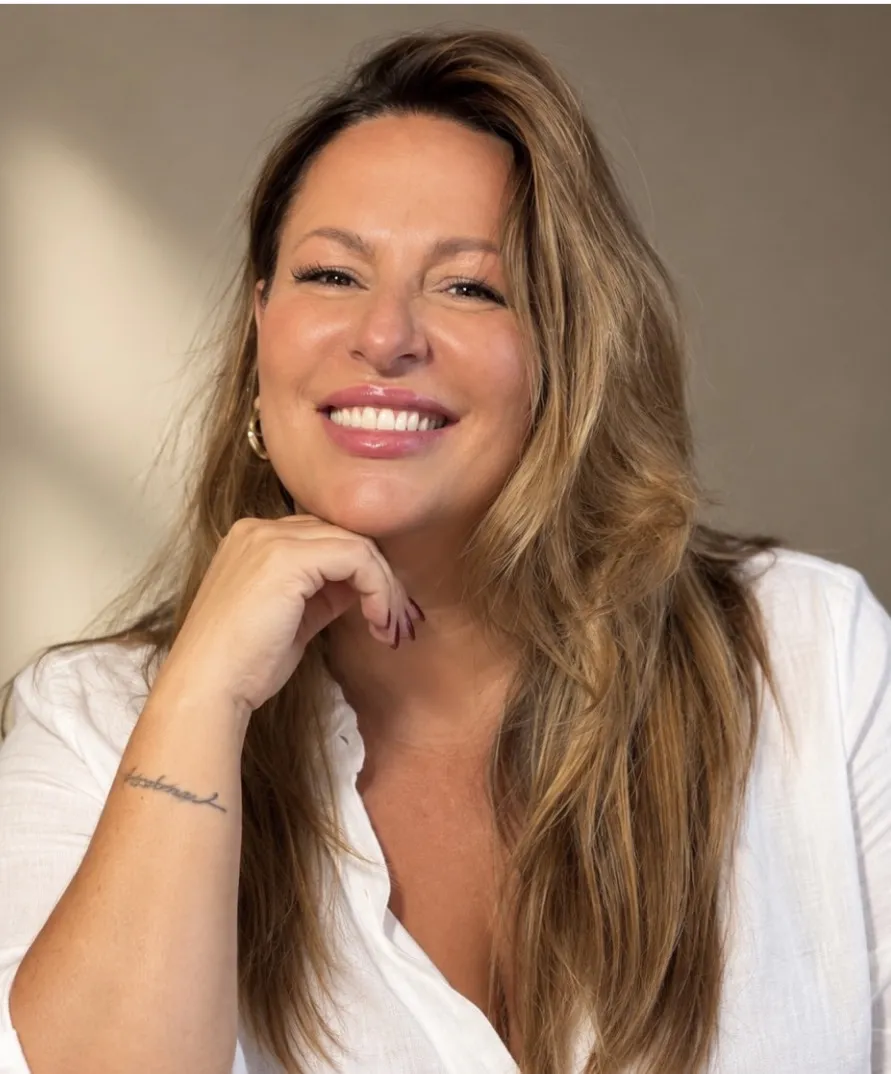
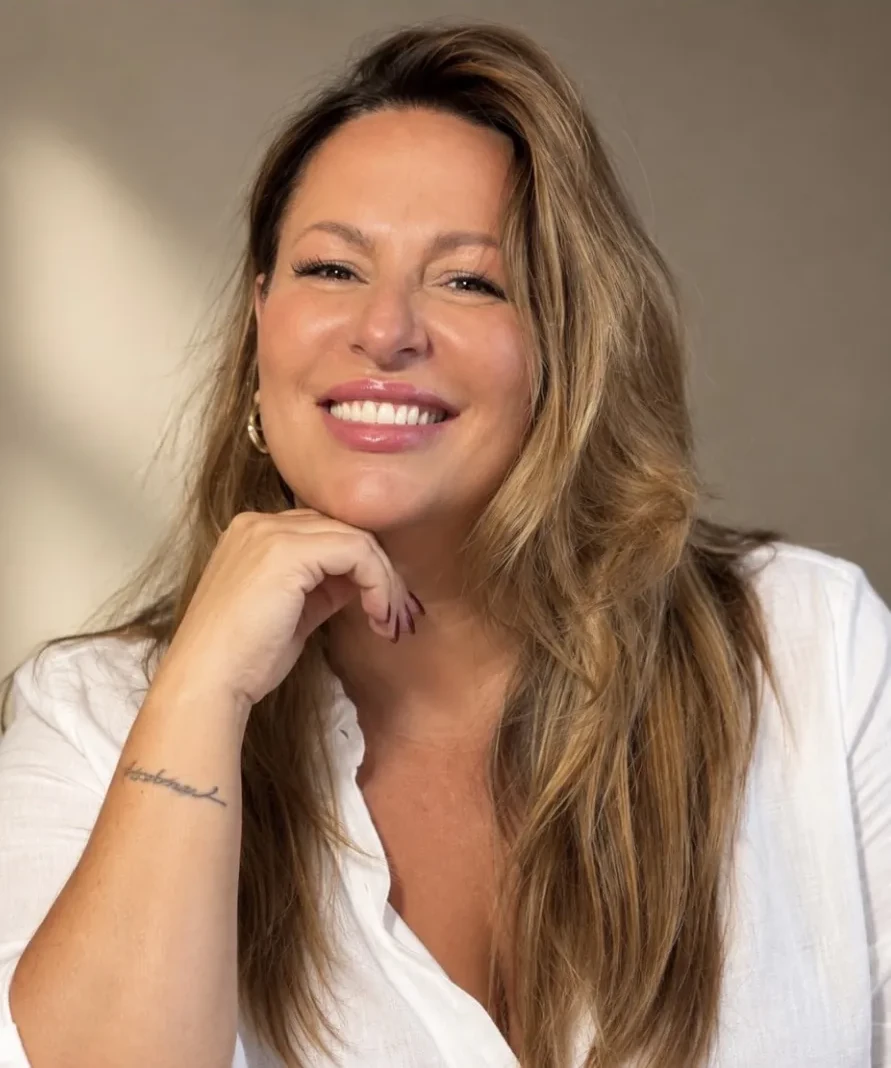
Krem koverta u footeru stranica Nakit, crna nazad na početnoj, svetlija čipka, svetlije kartice utisaka na telefonu, Svetlana bez bele linije
Claude-Session: https://claude.ai/code/session_01D4ZeZm119MDYsH3fkBFZBe

diff --git a/public/index.html b/public/index.html
@@ -295,7 +295,7 @@ if(!(window.matchMedia&&matchMedia('(prefers-reduced-motion: reduce)').matches))
   </div>
 </section>
 <script src="/kamen/embed.js?v=13" defer></script>
-<section id="utisci" aria-label="Utisci mačkica"><link rel="stylesheet" href="/utisci/utisci.css?v=46"><div class="u-head"><h2>Žene koje već nose<br><em>svoj kamen</em></h2><p class="u-sub">Žene koje znaju šta žele: preduzetnice, mame i žene koje stvaraju. Svaka je izabrala svoj kamen. Evo šta kažu.</p></div><div class="u-row"><article class="u-c" tabindex="0"><img src="/assets/utisci/marija.webp?v=1" alt="Marija" loading="lazy" decoding="async" style="object-position:50% 30%"><div class="u-t"><blockquote class="u-q">„Moj Crni Ahat, moja amajlija. Nosim ga, umiruje me.“</blockquote><div class="u-by">— <b>Marija</b>, <span>Salon Ceance</span></div><a class="u-ig" href="https://www.instagram.com/salonseance/" target="_blank" rel="noopener">@salonseance</a></div></article><article class="u-c" tabindex="0"><img src="/assets/utisci/svetlana.webp?v=1" alt="Svetlana" loading="lazy" decoding="async" style="object-position:50% 22%"><div class="u-t"><blockquote class="u-q">„Oni koji me znaju, znaju da obožavam autentičan nakit stvoren sa pričom, maštom i ljubavlju.“</blockquote><div class="u-by">— <b>Svetlana</b>, <span>NLP trener</span></div><a class="u-ig" href="https://www.instagram.com/svetlana_ceca_lolic/" target="_blank" rel="noopener">@svetlana_ceca_lolic</a></div></article><article class="u-c" tabindex="0"><img src="/assets/utisci/danica.webp?v=1" alt="Danica" loading="lazy" decoding="async" style="object-position:50% 22%"><div class="u-t"><blockquote class="u-q">„Uzela sam je pred put u Tbilisi. Prelepa je. Prošetala sam je Gruzijom, slikala i snimala.“</blockquote><div class="u-by">— <b>Danica</b>, <span>Tehnika hidraulike</span></div><a class="u-ig" href="https://www.instagram.com/tehnikahidraulike.st.doo/" target="_blank" rel="noopener">@tehnikahidraulike.st.doo</a></div></article><article class="u-c" tabindex="0"><img src="/assets/utisci/milica.webp?v=1" alt="Milica" loading="lazy" decoding="async" style="object-position:50% 25%"><div class="u-t"><blockquote class="u-q">„Fenomenalna je. Ništa ne bih menjala.“</blockquote><div class="u-by">— <b>Milica</b></div><a class="u-ig" href="https://www.instagram.com/micaa1985/" target="_blank" rel="noopener">@micaa1985</a></div></article><article class="u-c" tabindex="0"><img src="/assets/utisci/ivana.webp?v=1" alt="Ivana" loading="lazy" decoding="async" style="object-position:50% 30%"><div class="u-t"><blockquote class="u-q">„Prelepo. Moj je lepši od tvog.“</blockquote><div class="u-by">— <b>Ivana</b>, <span>Ramovi i dekoracije</span></div><a class="u-ig" href="https://www.instagram.com/ramovi_dekor_beograd/" target="_blank" rel="noopener">@ramovi_dekor_beograd</a></div></article><article class="u-c" tabindex="0"><img src="/assets/utisci/brankica4.webp?v=1" alt="Brankica" loading="lazy" decoding="async" style="object-position:50% 25%"><div class="u-t"><blockquote class="u-q">„Zeleni Aventurin za još malo vilinske magije.“</blockquote><div class="u-by">— <b>Brankica</b>, <span>Veterinar</span></div><a class="u-ig" href="https://www.instagram.com/brankica_vila/" target="_blank" rel="noopener">@brankica_vila</a></div></article><article class="u-c" tabindex="0"><img src="/assets/utisci/zeljka7.webp?v=1" alt="Željka" loading="lazy" decoding="async" style="object-position:50% 30%"><div class="u-t"><blockquote class="u-q">„Volim misleći i kreativni um.“</blockquote><div class="u-by">— <b>Željka</b>, <span>Nutricionista</span></div><a class="u-ig" href="https://www.instagram.com/houseofjoy_barajevo/" target="_blank" rel="noopener">@houseofjoy_barajevo</a></div></article><article class="u-c" tabindex="0"><img src="/assets/utisci/milica-sunka4.webp?v=1" alt="Milica" loading="lazy" decoding="async" style="object-position:50% 40%"><div class="u-t"><blockquote class="u-q">„Sestrić mi je rekao da liči na šunku na vratu. Nosim je.“</blockquote><div class="u-by">— <b>Milica</b></div><a class="u-ig" href="https://www.instagram.com/mujerquemata/" target="_blank" rel="noopener">@mujerquemata</a></div></article></div></section>
+<section id="utisci" aria-label="Utisci mačkica"><link rel="stylesheet" href="/utisci/utisci.css?v=47"><div class="u-head"><h2>Žene koje već nose<br><em>svoj kamen</em></h2><p class="u-sub">Žene koje znaju šta žele: preduzetnice, mame i žene koje stvaraju. Svaka je izabrala svoj kamen. Evo šta kažu.</p></div><div class="u-row"><article class="u-c" tabindex="0"><img src="/assets/utisci/marija.webp?v=1" alt="Marija" loading="lazy" decoding="async" style="object-position:50% 30%"><div class="u-t"><blockquote class="u-q">„Moj Crni Ahat, moja amajlija. Nosim ga, umiruje me.“</blockquote><div class="u-by">— <b>Marija</b>, <span>Salon Ceance</span></div><a class="u-ig" href="https://www.instagram.com/salonseance/" target="_blank" rel="noopener">@salonseance</a></div></article><article class="u-c" tabindex="0"><img src="/assets/utisci/svetlana.webp?v=2" alt="Svetlana" loading="lazy" decoding="async" style="object-position:50% 22%"><div class="u-t"><blockquote class="u-q">„Oni koji me znaju, znaju da obožavam autentičan nakit stvoren sa pričom, maštom i ljubavlju.“</blockquote><div class="u-by">— <b>Svetlana</b>, <span>NLP trener</span></div><a class="u-ig" href="https://www.instagram.com/svetlana_ceca_lolic/" target="_blank" rel="noopener">@svetlana_ceca_lolic</a></div></article><article class="u-c" tabindex="0"><img src="/assets/utisci/danica.webp?v=1" alt="Danica" loading="lazy" decoding="async" style="object-position:50% 22%"><div class="u-t"><blockquote class="u-q">„Uzela sam je pred put u Tbilisi. Prelepa je. Prošetala sam je Gruzijom, slikala i snimala.“</blockquote><div class="u-by">— <b>Danica</b>, <span>Tehnika hidraulike</span></div><a class="u-ig" href="https://www.instagram.com/tehnikahidraulike.st.doo/" target="_blank" rel="noopener">@tehnikahidraulike.st.doo</a></div></article><article class="u-c" tabindex="0"><img src="/assets/utisci/milica.webp?v=1" alt="Milica" loading="lazy" decoding="async" style="object-position:50% 25%"><div class="u-t"><blockquote class="u-q">„Fenomenalna je. Ništa ne bih menjala.“</blockquote><div class="u-by">— <b>Milica</b></div><a class="u-ig" href="https://www.instagram.com/micaa1985/" target="_blank" rel="noopener">@micaa1985</a></div></article><article class="u-c" tabindex="0"><img src="/assets/utisci/ivana.webp?v=1" alt="Ivana" loading="lazy" decoding="async" style="object-position:50% 30%"><div class="u-t"><blockquote class="u-q">„Prelepo. Moj je lepši od tvog.“</blockquote><div class="u-by">— <b>Ivana</b>, <span>Ramovi i dekoracije</span></div><a class="u-ig" href="https://www.instagram.com/ramovi_dekor_beograd/" target="_blank" rel="noopener">@ramovi_dekor_beograd</a></div></article><article class="u-c" tabindex="0"><img src="/assets/utisci/brankica4.webp?v=1" alt="Brankica" loading="lazy" decoding="async" style="object-position:50% 25%"><div class="u-t"><blockquote class="u-q">„Zeleni Aventurin za još malo vilinske magije.“</blockquote><div class="u-by">— <b>Brankica</b>, <span>Veterinar</span></div><a class="u-ig" href="https://www.instagram.com/brankica_vila/" target="_blank" rel="noopener">@brankica_vila</a></div></article><article class="u-c" tabindex="0"><img src="/assets/utisci/zeljka7.webp?v=1" alt="Željka" loading="lazy" decoding="async" style="object-position:50% 30%"><div class="u-t"><blockquote class="u-q">„Volim misleći i kreativni um.“</blockquote><div class="u-by">— <b>Željka</b>, <span>Nutricionista</span></div><a class="u-ig" href="https://www.instagram.com/houseofjoy_barajevo/" target="_blank" rel="noopener">@houseofjoy_barajevo</a></div></article><article class="u-c" tabindex="0"><img src="/assets/utisci/milica-sunka4.webp?v=1" alt="Milica" loading="lazy" decoding="async" style="object-position:50% 40%"><div class="u-t"><blockquote class="u-q">„Sestrić mi je rekao da liči na šunku na vratu. Nosim je.“</blockquote><div class="u-by">— <b>Milica</b></div><a class="u-ig" href="https://www.instagram.com/mujerquemata/" target="_blank" rel="noopener">@mujerquemata</a></div></article></div></section>
 <script src="/utisci/utisci.js?v=22" defer></script>
 
 <sc-if value="{{ chipTxt }}" hint-placeholder-val="{{ false }}">
@@ -304,9 +304,9 @@ if(!(window.matchMedia&&matchMedia('(prefers-reduced-motion: reduce)').matches))
     <span style="display:grid;gap:2px"><span style="font:700 12px/1.2 Inter,sans-serif;letter-spacing:.1em;text-transform:uppercase">{{ chipTxt }}</span><span style="font:500 11px Inter,sans-serif;color:#5C534A">U korpi · važi još <b style="font-variant-numeric:tabular-nums">{{ left }}</b></span></span>
   </a>
 </sc-if>
-<footer id="mfoot"><link rel="stylesheet" href="/footer/footer.css?v=6"><div class="f-in">
+<footer id="mfoot"><link rel="stylesheet" href="/footer/footer.css?v=7"><div class="f-in">
 <div class="f-soc l"></div>
-<div class="f-env"><img class="e" src="/assets/kamen/koverta-krem.webp?v=1" alt="" loading="lazy"><div class="f-paper"><img src="/assets/site/maca-providna.png" alt=""><div class="s">Mnjauprrrrr</div><div class="h">Nakit za mačkice</div><div class="t">Ili jesi ili nisi mačka</div><a href="mailto:marina.rakic1806@gmail.com">marina.rakic1806@gmail.com</a></div></div>
+<div class="f-env"><img class="e" src="/assets/kamen/koverta.webp?v=1" alt="" loading="lazy"><div class="f-paper"><img src="/assets/site/maca-providna.png" alt=""><div class="s">Mnjauprrrrr</div><div class="h">Nakit za mačkice</div><div class="t">Ili jesi ili nisi mačka</div><a href="mailto:marina.rakic1806@gmail.com">marina.rakic1806@gmail.com</a></div></div>
 <div class="f-soc r"><a href="https://www.tiktok.com/@mnjauprrrrr" target="_blank" rel="noopener" aria-label="TikTok"><svg viewBox="0 0 24 24"><path d="M16.6 3c.3 2.4 1.8 4 4.1 4.2v3.1c-1.5 0-2.9-.4-4.1-1.2v6.4c0 3.6-2.6 6.1-6 6.1a5.9 5.9 0 0 1-6-5.9c0-3.6 3.1-6.3 6.7-5.8v3.2c-1.7-.5-3.3.6-3.3 2.4 0 1.5 1.200 2.700 2.700 2.700 1.700 0 2.700-1.200 2.700-3V3z"/></svg></a><a href="https://www.instagram.com/mnjauprrrrrr" target="_blank" rel="noopener" aria-label="Instagram"><svg viewBox="0 0 24 24"><path d="M7.800 2h8.400A5.800 5.800 0 0 1 22 7.800v8.400a5.800 5.800 0 0 1-5.800 5.800H7.800A5.800 5.800 0 0 1 2 16.200V7.800A5.800 5.800 0 0 1 7.800 2zm0 2A3.800 3.800 0 0 0 4 7.800v8.400A3.800 3.800 0 0 0 7.800 20h8.400a3.800 3.800 0 0 0 3.800-3.800V7.800A3.800 3.800 0 0 0 16.200 4H7.800zM12 7a5 5 0 1 1 0 10 5 5 0 0 1 0-10zm0 2a3 3 0 1 0 0 6 3 3 0 0 0 0-6zm5.500-3.200a1.200 1.200 0 1 1 0 2.400 1.200 1.200 0 0 1 0-2.400z"/></svg></a><a href="https://www.facebook.com/share/1CaxCXrf5x/?mibextid=wwXIfr" target="_blank" rel="noopener" aria-label="Facebook"><svg viewBox="0 0 24 24"><path d="M13.500 22v-8.200h2.800l.4-3.300h-3.200V8.400c0-.9.300-1.600 1.600-1.600h1.700V3.900c-.3 0-1.300-.1-2.400-.1-2.500 0-4.200 1.500-4.200 4.300v2.400H7.400v3.300h2.800V22h3.300z"/></svg></a><a href="https://www.pinterest.com/marinar369/" target="_blank" rel="noopener" aria-label="Pinterest"><svg viewBox="0 0 24 24"><path d="M12 2a10 10 0 0 0-3.600 19.300c-.1-.8-.2-2 0-2.900l1.200-5s-.3-.6-.3-1.500c0-1.400.8-2.400 1.800-2.400.9 0 1.300.6 1.300 1.400 0 .9-.5 2.100-.8 3.300-.2 1 .5 1.800 1.500 1.800 1.800 0 3.200-1.900 3.200-4.600 0-2.400-1.700-4.100-4.200-4.100-2.900 0-4.600 2.200-4.600 4.400 0 .9.300 1.800.8 2.300.1.1.1.2.1.3l-.3 1.100c0 .2-.2.2-.4.1-1.300-.6-2.100-2.500-2.100-4 0-3.300 2.400-6.300 6.900-6.300 3.600 0 6.400 2.600 6.400 6 0 3.600-2.300 6.500-5.400 6.500-1.100 0-2.100-.6-2.400-1.200l-.7 2.500c-.2.900-.9 2.100-1.300 2.800A10 10 0 1 0 12 2z"/></svg></a></div>
 </div><div class="f-copy">© 2026 Mnjauprrrrr</div></footer>
 </div>

diff --git a/public/footer/krem.js b/public/footer/krem.js
@@ -1,0 +1,14 @@
+(function(){
+if(window.__mjKremFooter)return;window.__mjKremFooter=1;
+var HTML="<div class=\"f-in\">\n<div class=\"f-soc l\"></div>\n<div class=\"f-env\"><img class=\"e\" src=\"/assets/kamen/koverta-krem.webp?v=2\" alt=\"\" loading=\"lazy\"><div class=\"f-paper\"><img src=\"/assets/site/maca-providna.png\" alt=\"\"><div class=\"s\">Mnjauprrrrr</div><div class=\"h\">Nakit za mačkice</div><div class=\"t\">Ili jesi ili nisi mačka</div><a href=\"mailto:marina.rakic1806@gmail.com\">marina.rakic1806@gmail.com</a></div></div>\n<div class=\"f-soc r\"><a href=\"https://www.tiktok.com/@mnjauprrrrr\" target=\"_blank\" rel=\"noopener\" aria-label=\"TikTok\"><svg viewBox=\"0 0 24 24\"><path d=\"M16.6 3c.3 2.4 1.8 4 4.1 4.2v3.1c-1.5 0-2.9-.4-4.1-1.2v6.4c0 3.6-2.6 6.1-6 6.1a5.9 5.9 0 0 1-6-5.9c0-3.6 3.1-6.3 6.7-5.8v3.2c-1.7-.5-3.3.6-3.3 2.4 0 1.5 1.200 2.700 2.700 2.700 1.700 0 2.700-1.200 2.700-3V3z\"/></svg></a><a href=\"https://www.instagram.com/mnjauprrrrrr\" target=\"_blank\" rel=\"noopener\" aria-label=\"Instagram\"><svg viewBox=\"0 0 24 24\"><path d=\"M7.800 2h8.400A5.800 5.800 0 0 1 22 7.800v8.400a5.800 5.800 0 0 1-5.800 5.800H7.800A5.800 5.800 0 0 1 2 16.200V7.800A5.800 5.800 0 0 1 7.800 2zm0 2A3.800 3.800 0 0 0 4 7.800v8.400A3.800 3.800 0 0 0 7.800 20h8.400a3.800 3.800 0 0 0 3.800-3.800V7.800A3.800 3.800 0 0 0 16.200 4H7.800zM12 7a5 5 0 1 1 0 10 5 5 0 0 1 0-10zm0 2a3 3 0 1 0 0 6 3 3 0 0 0 0-6zm5.500-3.200a1.200 1.200 0 1 1 0 2.400 1.200 1.200 0 0 1 0-2.400z\"/></svg></a><a href=\"https://www.facebook.com/share/1CaxCXrf5x/?mibextid=wwXIfr\" target=\"_blank\" rel=\"noopener\" aria-label=\"Facebook\"><svg viewBox=\"0 0 24 24\"><path d=\"M13.500 22v-8.200h2.800l.4-3.300h-3.200V8.400c0-.9.300-1.600 1.600-1.600h1.700V3.900c-.3 0-1.300-.1-2.400-.1-2.500 0-4.200 1.500-4.200 4.300v2.400H7.400v3.300h2.800V22h3.300z\"/></svg></a><a href=\"https://www.pinterest.com/marinar369/\" target=\"_blank\" rel=\"noopener\" aria-label=\"Pinterest\"><svg viewBox=\"0 0 24 24\"><path d=\"M12 2a10 10 0 0 0-3.600 19.300c-.1-.8-.2-2 0-2.900l1.200-5s-.3-.6-.3-1.500c0-1.400.8-2.400 1.800-2.400.9 0 1.300.6 1.300 1.400 0 .9-.5 2.100-.8 3.300-.2 1 .5 1.800 1.500 1.800 1.800 0 3.200-1.900 3.200-4.600 0-2.400-1.700-4.100-4.200-4.100-2.900 0-4.600 2.200-4.600 4.400 0 .9.300 1.800.8 2.300.1.1.1.2.1.3l-.3 1.100c0 .2-.2.2-.4.1-1.300-.6-2.100-2.500-2.100-4 0-3.300 2.400-6.300 6.900-6.300 3.600 0 6.400 2.600 6.400 6 0 3.600-2.300 6.500-5.400 6.500-1.100 0-2.100-.6-2.400-1.200l-.7 2.500c-.2.900-.9 2.100-1.300 2.800A10 10 0 1 0 12 2z\"/></svg></a></div>\n</div><div class=\"f-copy\">© 2026 Mnjauprrrrr</div>";
+function go(){
+  var old=document.querySelector('footer#kontakt');
+  if(!old||document.getElementById('mfoot'))return false;
+  old.removeAttribute('id');old.style.display='none';old.setAttribute('data-old-footer','1');
+  if(!document.getElementById('mfoot-css')){var l=document.createElement('link');l.id='mfoot-css';l.rel='stylesheet';l.href='/footer/footer.css?v=7';document.head.appendChild(l)}
+  var f=document.createElement('footer');f.id='mfoot';f.innerHTML='<span id="kontakt" style="position:absolute;top:0"></span>'+HTML;
+  old.parentNode.insertBefore(f,old.nextSibling);return true;
+}
+var tries=0;(function t(){if(go()||tries++>80)return;setTimeout(t,150)})();
+new MutationObserver(function(){var o=document.querySelector('footer#kontakt');if(o&&!document.getElementById('mfoot'))go()}).observe(document.documentElement,{childList:true,subtree:true});
+})();

diff --git a/public/nakit/sazvezdje-ljubavi/index.html b/public/nakit/sazvezdje-ljubavi/index.html
@@ -1,1 +1,1 @@
-<!doctype html><html lang="sr-Latn"><head><meta charset="utf-8"><title>Ogrlica Sazvežđe ljubavi | Mnjauprrrrr</title><meta name="viewport" content="width=device-width,initial-scale=1"><link rel="canonical" href="https://mnjauprrrrr.com/nakit/sazvezdje-ljubavi/"><meta property="og:title" content="Ogrlica Sazvežđe ljubavi | Mnjauprrrrr"><meta property="og:image" content="https://mnjauprrrrr.com/assets/site/p-ogrlica-sazvezdje-ljubavi.jpg"><meta http-equiv="refresh" content="0;url=/sajt/#proizvod/sazvezdje-ljubavi"><script>location.replace('/sajt/#proizvod/sazvezdje-ljubavi')</script></head><body style="background:#F4EDE2;font-family:Inter,sans-serif"><a href="/sajt/#proizvod/sazvezdje-ljubavi">Ogrlica Sazvežđe ljubavi</a></body></html>
+<!doctype html><html lang="sr-Latn"><head><meta charset="utf-8"><title>Ogrlica Sazvežđe ljubavi | Mnjauprrrrr</title><meta name="viewport" content="width=device-width,initial-scale=1"><link rel="canonical" href="https://mnjauprrrrr.com/nakit/sazvezdje-ljubavi/"><meta property="og:title" content="Ogrlica Sazvežđe ljubavi | Mnjauprrrrr"><meta property="og:image" content="https://mnjauprrrrr.com/assets/site/p-ogrlica-sazvezdje-ljubavi.jpg"><meta http-equiv="refresh" content="0;url=/sajt/#proizvod/sazvezdje-ljubavi"><script>location.replace('/sajt/#proizvod/sazvezdje-ljubavi')</script></head><body style="background:#F4EDE2;font-family:Inter,sans-serif"><a href="/sajt/#proizvod/sazvezdje-ljubavi">Ogrlica Sazvežđe ljubavi</a><script src="/footer/krem.js?v=1" defer></script></body></html>

diff --git a/public/nakit/sampanj-kristali/index.html b/public/nakit/sampanj-kristali/index.html
@@ -1,1 +1,1 @@
-<!doctype html><html lang="sr-Latn"><head><meta charset="utf-8"><title>Ogrlica Šampanj kristali | Mnjauprrrrr</title><meta name="viewport" content="width=device-width,initial-scale=1"><link rel="canonical" href="https://mnjauprrrrr.com/nakit/sampanj-kristali/"><meta property="og:title" content="Ogrlica Šampanj kristali | Mnjauprrrrr"><meta property="og:image" content="https://mnjauprrrrr.com/assets/site/p-ogrlica-sampanj-kristali.jpg"><meta http-equiv="refresh" content="0;url=/sajt/#proizvod/sampanj-kristali"><script>location.replace('/sajt/#proizvod/sampanj-kristali')</script></head><body style="background:#F4EDE2;font-family:Inter,sans-serif"><a href="/sajt/#proizvod/sampanj-kristali">Ogrlica Šampanj kristali</a></body></html>
+<!doctype html><html lang="sr-Latn"><head><meta charset="utf-8"><title>Ogrlica Šampanj kristali | Mnjauprrrrr</title><meta name="viewport" content="width=device-width,initial-scale=1"><link rel="canonical" href="https://mnjauprrrrr.com/nakit/sampanj-kristali/"><meta property="og:title" content="Ogrlica Šampanj kristali | Mnjauprrrrr"><meta property="og:image" content="https://mnjauprrrrr.com/assets/site/p-ogrlica-sampanj-kristali.jpg"><meta http-equiv="refresh" content="0;url=/sajt/#proizvod/sampanj-kristali"><script>location.replace('/sajt/#proizvod/sampanj-kristali')</script></head><body style="background:#F4EDE2;font-family:Inter,sans-serif"><a href="/sajt/#proizvod/sampanj-kristali">Ogrlica Šampanj kristali</a><script src="/footer/krem.js?v=1" defer></script></body></html>

diff --git a/public/nakit/razigrani-jaspis/index.html b/public/nakit/razigrani-jaspis/index.html
@@ -1,1 +1,1 @@
-<!doctype html><html lang="sr-Latn"><head><meta charset="utf-8"><title>Ogrlica Razigrani Jaspis | Mnjauprrrrr</title><meta name="viewport" content="width=device-width,initial-scale=1"><link rel="canonical" href="https://mnjauprrrrr.com/nakit/razigrani-jaspis/"><meta property="og:title" content="Ogrlica Razigrani Jaspis | Mnjauprrrrr"><meta property="og:image" content="https://mnjauprrrrr.com/assets/site/p-ogrlica-razigrani-jaspis.jpg"><meta http-equiv="refresh" content="0;url=/sajt/#proizvod/razigrani-jaspis"><script>location.replace('/sajt/#proizvod/razigrani-jaspis')</script></head><body style="background:#F4EDE2;font-family:Inter,sans-serif"><a href="/sajt/#proizvod/razigrani-jaspis">Ogrlica Razigrani Jaspis</a></body></html>
+<!doctype html><html lang="sr-Latn"><head><meta charset="utf-8"><title>Ogrlica Razigrani Jaspis | Mnjauprrrrr</title><meta name="viewport" content="width=device-width,initial-scale=1"><link rel="canonical" href="https://mnjauprrrrr.com/nakit/razigrani-jaspis/"><meta property="og:title" content="Ogrlica Razigrani Jaspis | Mnjauprrrrr"><meta property="og:image" content="https://mnjauprrrrr.com/assets/site/p-ogrlica-razigrani-jaspis.jpg"><meta http-equiv="refresh" content="0;url=/sajt/#proizvod/razigrani-jaspis"><script>location.replace('/sajt/#proizvod/razigrani-jaspis')</script></head><body style="background:#F4EDE2;font-family:Inter,sans-serif"><a href="/sajt/#proizvod/razigrani-jaspis">Ogrlica Razigrani Jaspis</a><script src="/footer/krem.js?v=1" defer></script></body></html>

diff --git a/public/nakit/krug-svetlosti/index.html b/public/nakit/krug-svetlosti/index.html
@@ -1,1 +1,1 @@
-<!doctype html><html lang="sr-Latn"><head><meta charset="utf-8"><title>Ogrlica Krug svetlosti | Mnjauprrrrr</title><meta name="viewport" content="width=device-width,initial-scale=1"><link rel="canonical" href="https://mnjauprrrrr.com/nakit/krug-svetlosti/"><meta property="og:title" content="Ogrlica Krug svetlosti | Mnjauprrrrr"><meta property="og:image" content="https://mnjauprrrrr.com/assets/site/p-ogrlica-krug-svetlosti.jpg"><meta http-equiv="refresh" content="0;url=/sajt/#proizvod/krug-svetlosti"><script>location.replace('/sajt/#proizvod/krug-svetlosti')</script></head><body style="background:#F4EDE2;font-family:Inter,sans-serif"><a href="/sajt/#proizvod/krug-svetlosti">Ogrlica Krug svetlosti</a></body></html>
+<!doctype html><html lang="sr-Latn"><head><meta charset="utf-8"><title>Ogrlica Krug svetlosti | Mnjauprrrrr</title><meta name="viewport" content="width=device-width,initial-scale=1"><link rel="canonical" href="https://mnjauprrrrr.com/nakit/krug-svetlosti/"><meta property="og:title" content="Ogrlica Krug svetlosti | Mnjauprrrrr"><meta property="og:image" content="https://mnjauprrrrr.com/assets/site/p-ogrlica-krug-svetlosti.jpg"><meta http-equiv="refresh" content="0;url=/sajt/#proizvod/krug-svetlosti"><script>location.replace('/sajt/#proizvod/krug-svetlosti')</script></head><body style="background:#F4EDE2;font-family:Inter,sans-serif"><a href="/sajt/#proizvod/krug-svetlosti">Ogrlica Krug svetlosti</a><script src="/footer/krem.js?v=1" defer></script></body></html>

diff --git a/public/nakit/prsten-riznica/index.html b/public/nakit/prsten-riznica/index.html
@@ -1,1 +1,1 @@
-<!doctype html><html lang="sr-Latn"><head><meta charset="utf-8"><title>Prsten Mesečeva riznica | Mnjauprrrrr</title><meta name="viewport" content="width=device-width,initial-scale=1"><link rel="canonical" href="https://mnjauprrrrr.com/nakit/prsten-riznica/"><meta property="og:title" content="Prsten Mesečeva riznica | Mnjauprrrrr"><meta property="og:image" content="https://mnjauprrrrr.com/assets/site/p-prsten-riznica.jpg"><meta http-equiv="refresh" content="0;url=/sajt/#proizvod/prsten-riznica"><script>location.replace('/sajt/#proizvod/prsten-riznica')</script></head><body style="background:#F4EDE2;font-family:Inter,sans-serif"><a href="/sajt/#proizvod/prsten-riznica">Prsten Mesečeva riznica</a></body></html>
+<!doctype html><html lang="sr-Latn"><head><meta charset="utf-8"><title>Prsten Mesečeva riznica | Mnjauprrrrr</title><meta name="viewport" content="width=device-width,initial-scale=1"><link rel="canonical" href="https://mnjauprrrrr.com/nakit/prsten-riznica/"><meta property="og:title" content="Prsten Mesečeva riznica | Mnjauprrrrr"><meta property="og:image" content="https://mnjauprrrrr.com/assets/site/p-prsten-riznica.jpg"><meta http-equiv="refresh" content="0;url=/sajt/#proizvod/prsten-riznica"><script>location.replace('/sajt/#proizvod/prsten-riznica')</script></head><body style="background:#F4EDE2;font-family:Inter,sans-serif"><a href="/sajt/#proizvod/prsten-riznica">Prsten Mesečeva riznica</a><script src="/footer/krem.js?v=1" defer></script></body></html>

diff --git a/public/nakit/narukvica-vazduh/index.html b/public/nakit/narukvica-vazduh/index.html
@@ -1,1 +1,1 @@
-<!doctype html><html lang="sr-Latn"><head><meta charset="utf-8"><title>Narukvica Vazduh | Mnjauprrrrr</title><meta name="viewport" content="width=device-width,initial-scale=1"><link rel="canonical" href="https://mnjauprrrrr.com/nakit/narukvica-vazduh/"><meta property="og:title" content="Narukvica Vazduh | Mnjauprrrrr"><meta property="og:image" content="https://mnjauprrrrr.com/assets/site/p-narukvica-vazduh-amazonit.jpg"><meta http-equiv="refresh" content="0;url=/sajt/#proizvod/narukvica-vazduh"><script>location.replace('/sajt/#proizvod/narukvica-vazduh')</script></head><body style="background:#F4EDE2;font-family:Inter,sans-serif"><a href="/sajt/#proizvod/narukvica-vazduh">Narukvica Vazduh</a></body></html>
+<!doctype html><html lang="sr-Latn"><head><meta charset="utf-8"><title>Narukvica Vazduh | Mnjauprrrrr</title><meta name="viewport" content="width=device-width,initial-scale=1"><link rel="canonical" href="https://mnjauprrrrr.com/nakit/narukvica-vazduh/"><meta property="og:title" content="Narukvica Vazduh | Mnjauprrrrr"><meta property="og:image" content="https://mnjauprrrrr.com/assets/site/p-narukvica-vazduh-amazonit.jpg"><meta http-equiv="refresh" content="0;url=/sajt/#proizvod/narukvica-vazduh"><script>location.replace('/sajt/#proizvod/narukvica-vazduh')</script></head><body style="background:#F4EDE2;font-family:Inter,sans-serif"><a href="/sajt/#proizvod/narukvica-vazduh">Narukvica Vazduh</a><script src="/footer/krem.js?v=1" defer></script></body></html>

diff --git a/public/nakit/divlja-zebra/index.html b/public/nakit/divlja-zebra/index.html
@@ -1,1 +1,1 @@
-<!doctype html><html lang="sr-Latn"><head><meta charset="utf-8"><title>Ogrlica Divlja zebra | Mnjauprrrrr</title><meta name="viewport" content="width=device-width,initial-scale=1"><link rel="canonical" href="https://mnjauprrrrr.com/nakit/divlja-zebra/"><meta property="og:title" content="Ogrlica Divlja zebra | Mnjauprrrrr"><meta property="og:image" content="https://mnjauprrrrr.com/assets/site/p-ogrlica-divlja-zebra.jpg"><meta http-equiv="refresh" content="0;url=/sajt/#proizvod/divlja-zebra"><script>location.replace('/sajt/#proizvod/divlja-zebra')</script></head><body style="background:#F4EDE2;font-family:Inter,sans-serif"><a href="/sajt/#proizvod/divlja-zebra">Ogrlica Divlja zebra</a></body></html>
+<!doctype html><html lang="sr-Latn"><head><meta charset="utf-8"><title>Ogrlica Divlja zebra | Mnjauprrrrr</title><meta name="viewport" content="width=device-width,initial-scale=1"><link rel="canonical" href="https://mnjauprrrrr.com/nakit/divlja-zebra/"><meta property="og:title" content="Ogrlica Divlja zebra | Mnjauprrrrr"><meta property="og:image" content="https://mnjauprrrrr.com/assets/site/p-ogrlica-divlja-zebra.jpg"><meta http-equiv="refresh" content="0;url=/sajt/#proizvod/divlja-zebra"><script>location.replace('/sajt/#proizvod/divlja-zebra')</script></head><body style="background:#F4EDE2;font-family:Inter,sans-serif"><a href="/sajt/#proizvod/divlja-zebra">Ogrlica Divlja zebra</a><script src="/footer/krem.js?v=1" defer></script></body></html>

diff --git a/public/nakit/narukvica-vatra/index.html b/public/nakit/narukvica-vatra/index.html
@@ -1,1 +1,1 @@
-<!doctype html><html lang="sr-Latn"><head><meta charset="utf-8"><title>Narukvica Vatra | Mnjauprrrrr</title><meta name="viewport" content="width=device-width,initial-scale=1"><link rel="canonical" href="https://mnjauprrrrr.com/nakit/narukvica-vatra/"><meta property="og:title" content="Narukvica Vatra | Mnjauprrrrr"><meta property="og:image" content="https://mnjauprrrrr.com/assets/site/p-narukvica-vatra-pirit.jpg"><meta http-equiv="refresh" content="0;url=/sajt/#proizvod/narukvica-vatra"><script>location.replace('/sajt/#proizvod/narukvica-vatra')</script></head><body style="background:#F4EDE2;font-family:Inter,sans-serif"><a href="/sajt/#proizvod/narukvica-vatra">Narukvica Vatra</a></body></html>
+<!doctype html><html lang="sr-Latn"><head><meta charset="utf-8"><title>Narukvica Vatra | Mnjauprrrrr</title><meta name="viewport" content="width=device-width,initial-scale=1"><link rel="canonical" href="https://mnjauprrrrr.com/nakit/narukvica-vatra/"><meta property="og:title" content="Narukvica Vatra | Mnjauprrrrr"><meta property="og:image" content="https://mnjauprrrrr.com/assets/site/p-narukvica-vatra-pirit.jpg"><meta http-equiv="refresh" content="0;url=/sajt/#proizvod/narukvica-vatra"><script>location.replace('/sajt/#proizvod/narukvica-vatra')</script></head><body style="background:#F4EDE2;font-family:Inter,sans-serif"><a href="/sajt/#proizvod/narukvica-vatra">Narukvica Vatra</a><script src="/footer/krem.js?v=1" defer></script></body></html>

diff --git a/public/nakit/morski-dah/index.html b/public/nakit/morski-dah/index.html
@@ -1,1 +1,1 @@
-<!doctype html><html lang="sr-Latn"><head><meta charset="utf-8"><title>Ogrlica Morski dah | Mnjauprrrrr</title><meta name="viewport" content="width=device-width,initial-scale=1"><link rel="canonical" href="https://mnjauprrrrr.com/nakit/morski-dah/"><meta property="og:title" content="Ogrlica Morski dah | Mnjauprrrrr"><meta property="og:image" content="https://mnjauprrrrr.com/assets/site/p-ogrlica-morski-dah.jpg"><meta http-equiv="refresh" content="0;url=/sajt/#proizvod/morski-dah"><script>location.replace('/sajt/#proizvod/morski-dah')</script></head><body style="background:#F4EDE2;font-family:Inter,sans-serif"><a href="/sajt/#proizvod/morski-dah">Ogrlica Morski dah</a></body></html>
+<!doctype html><html lang="sr-Latn"><head><meta charset="utf-8"><title>Ogrlica Morski dah | Mnjauprrrrr</title><meta name="viewport" content="width=device-width,initial-scale=1"><link rel="canonical" href="https://mnjauprrrrr.com/nakit/morski-dah/"><meta property="og:title" content="Ogrlica Morski dah | Mnjauprrrrr"><meta property="og:image" content="https://mnjauprrrrr.com/assets/site/p-ogrlica-morski-dah.jpg"><meta http-equiv="refresh" content="0;url=/sajt/#proizvod/morski-dah"><script>location.replace('/sajt/#proizvod/morski-dah')</script></head><body style="background:#F4EDE2;font-family:Inter,sans-serif"><a href="/sajt/#proizvod/morski-dah">Ogrlica Morski dah</a><script src="/footer/krem.js?v=1" defer></script></body></html>

diff --git a/public/nakit/jabucica/index.html b/public/nakit/jabucica/index.html
@@ -1,1 +1,1 @@
-<!doctype html><html lang="sr-Latn"><head><meta charset="utf-8"><title>Ogrlica Jabučica | Mnjauprrrrr</title><meta name="viewport" content="width=device-width,initial-scale=1"><link rel="canonical" href="https://mnjauprrrrr.com/nakit/jabucica/"><meta property="og:title" content="Ogrlica Jabučica | Mnjauprrrrr"><meta property="og:image" content="https://mnjauprrrrr.com/assets/site/p-ogrlica-jabucica.jpg"><meta http-equiv="refresh" content="0;url=/sajt/#proizvod/jabucica"><script>location.replace('/sajt/#proizvod/jabucica')</script></head><body style="background:#F4EDE2;font-family:Inter,sans-serif"><a href="/sajt/#proizvod/jabucica">Ogrlica Jabučica</a></body></html>
+<!doctype html><html lang="sr-Latn"><head><meta charset="utf-8"><title>Ogrlica Jabučica | Mnjauprrrrr</title><meta name="viewport" content="width=device-width,initial-scale=1"><link rel="canonical" href="https://mnjauprrrrr.com/nakit/jabucica/"><meta property="og:title" content="Ogrlica Jabučica | Mnjauprrrrr"><meta property="og:image" content="https://mnjauprrrrr.com/assets/site/p-ogrlica-jabucica.jpg"><meta http-equiv="refresh" content="0;url=/sajt/#proizvod/jabucica"><script>location.replace('/sajt/#proizvod/jabucica')</script></head><body style="background:#F4EDE2;font-family:Inter,sans-serif"><a href="/sajt/#proizvod/jabucica">Ogrlica Jabučica</a><script src="/footer/krem.js?v=1" defer></script></body></html>
